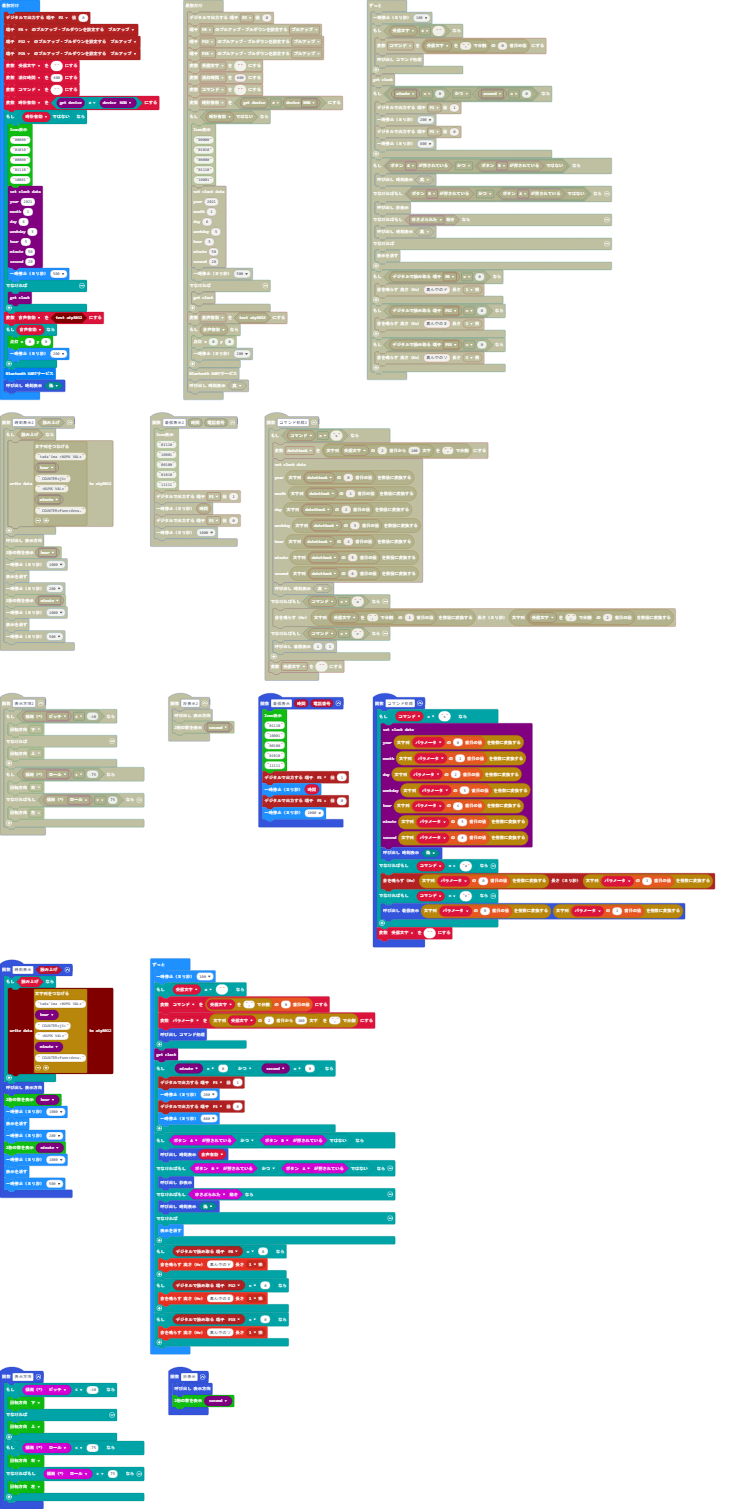
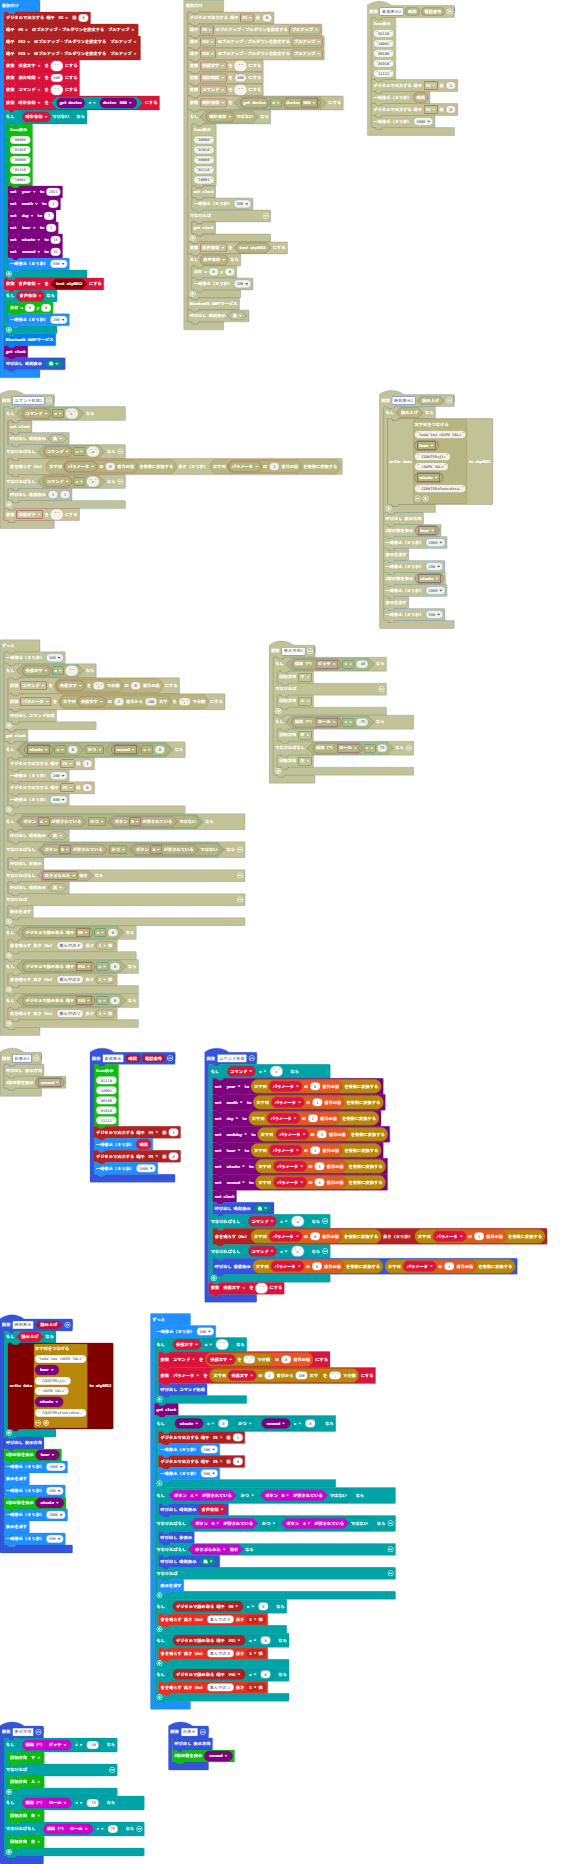
Update pxt.json, main.blocks, main.ts

diff --git a/main.ts b/main.ts
@@ -16,15 +16,14 @@ bluetooth.onUartDataReceived(serial.delimiters(Delimiters.NewLine), function () 
 })
 function コマンド処理 () {
     if (コマンド == "s") {
-        rtc.setClock(
-        parseInt(パラメータ[0]),
-        parseInt(パラメータ[1]),
-        parseInt(パラメータ[2]),
-        parseInt(パラメータ[3]),
-        parseInt(パラメータ[4]),
-        parseInt(パラメータ[5]),
-        parseInt(パラメータ[6])
-        )
+        rtc.setClockData(clockData.year, parseInt(パラメータ[0]))
+        rtc.setClockData(clockData.month, parseInt(パラメータ[1]))
+        rtc.setClockData(clockData.day, parseInt(パラメータ[2]))
+        rtc.setClockData(clockData.weekday, parseInt(パラメータ[3]))
+        rtc.setClockData(clockData.hour, parseInt(パラメータ[4]))
+        rtc.setClockData(clockData.minute, parseInt(パラメータ[5]))
+        rtc.setClockData(clockData.second, parseInt(パラメータ[6]))
+        rtc.setClock()
         時刻表示(false)
     } else if (コマンド == "a") {
         pins.analogPitch(parseInt(パラメータ[0]), parseInt(パラメータ[1]))
@@ -82,18 +81,13 @@ if (!(時計有効)) {
     "01110",
     "10001"
     )
-    rtc.setClock(
-    2021,
-    1,
-    6,
-    3,
-    5,
-    50,
-    20
-    )
+    rtc.setClockData(clockData.year, 2021)
+    rtc.setClockData(clockData.month, 1)
+    rtc.setClockData(clockData.day, 7)
+    rtc.setClockData(clockData.hour, 4)
+    rtc.setClockData(clockData.minute, 13)
+    rtc.setClockData(clockData.second, 32)
     basic.pause(500)
-} else {
-    rtc.getClock()
 }
 let 音声有効 = atp3012.isAvalable()
 if (音声有効) {
@@ -101,6 +95,7 @@ if (音声有効) {
     basic.pause(200)
 }
 bluetooth.startUartService()
+rtc.getClock()
 時刻表示(false)
 basic.forever(function () {
     basic.pause(100)
